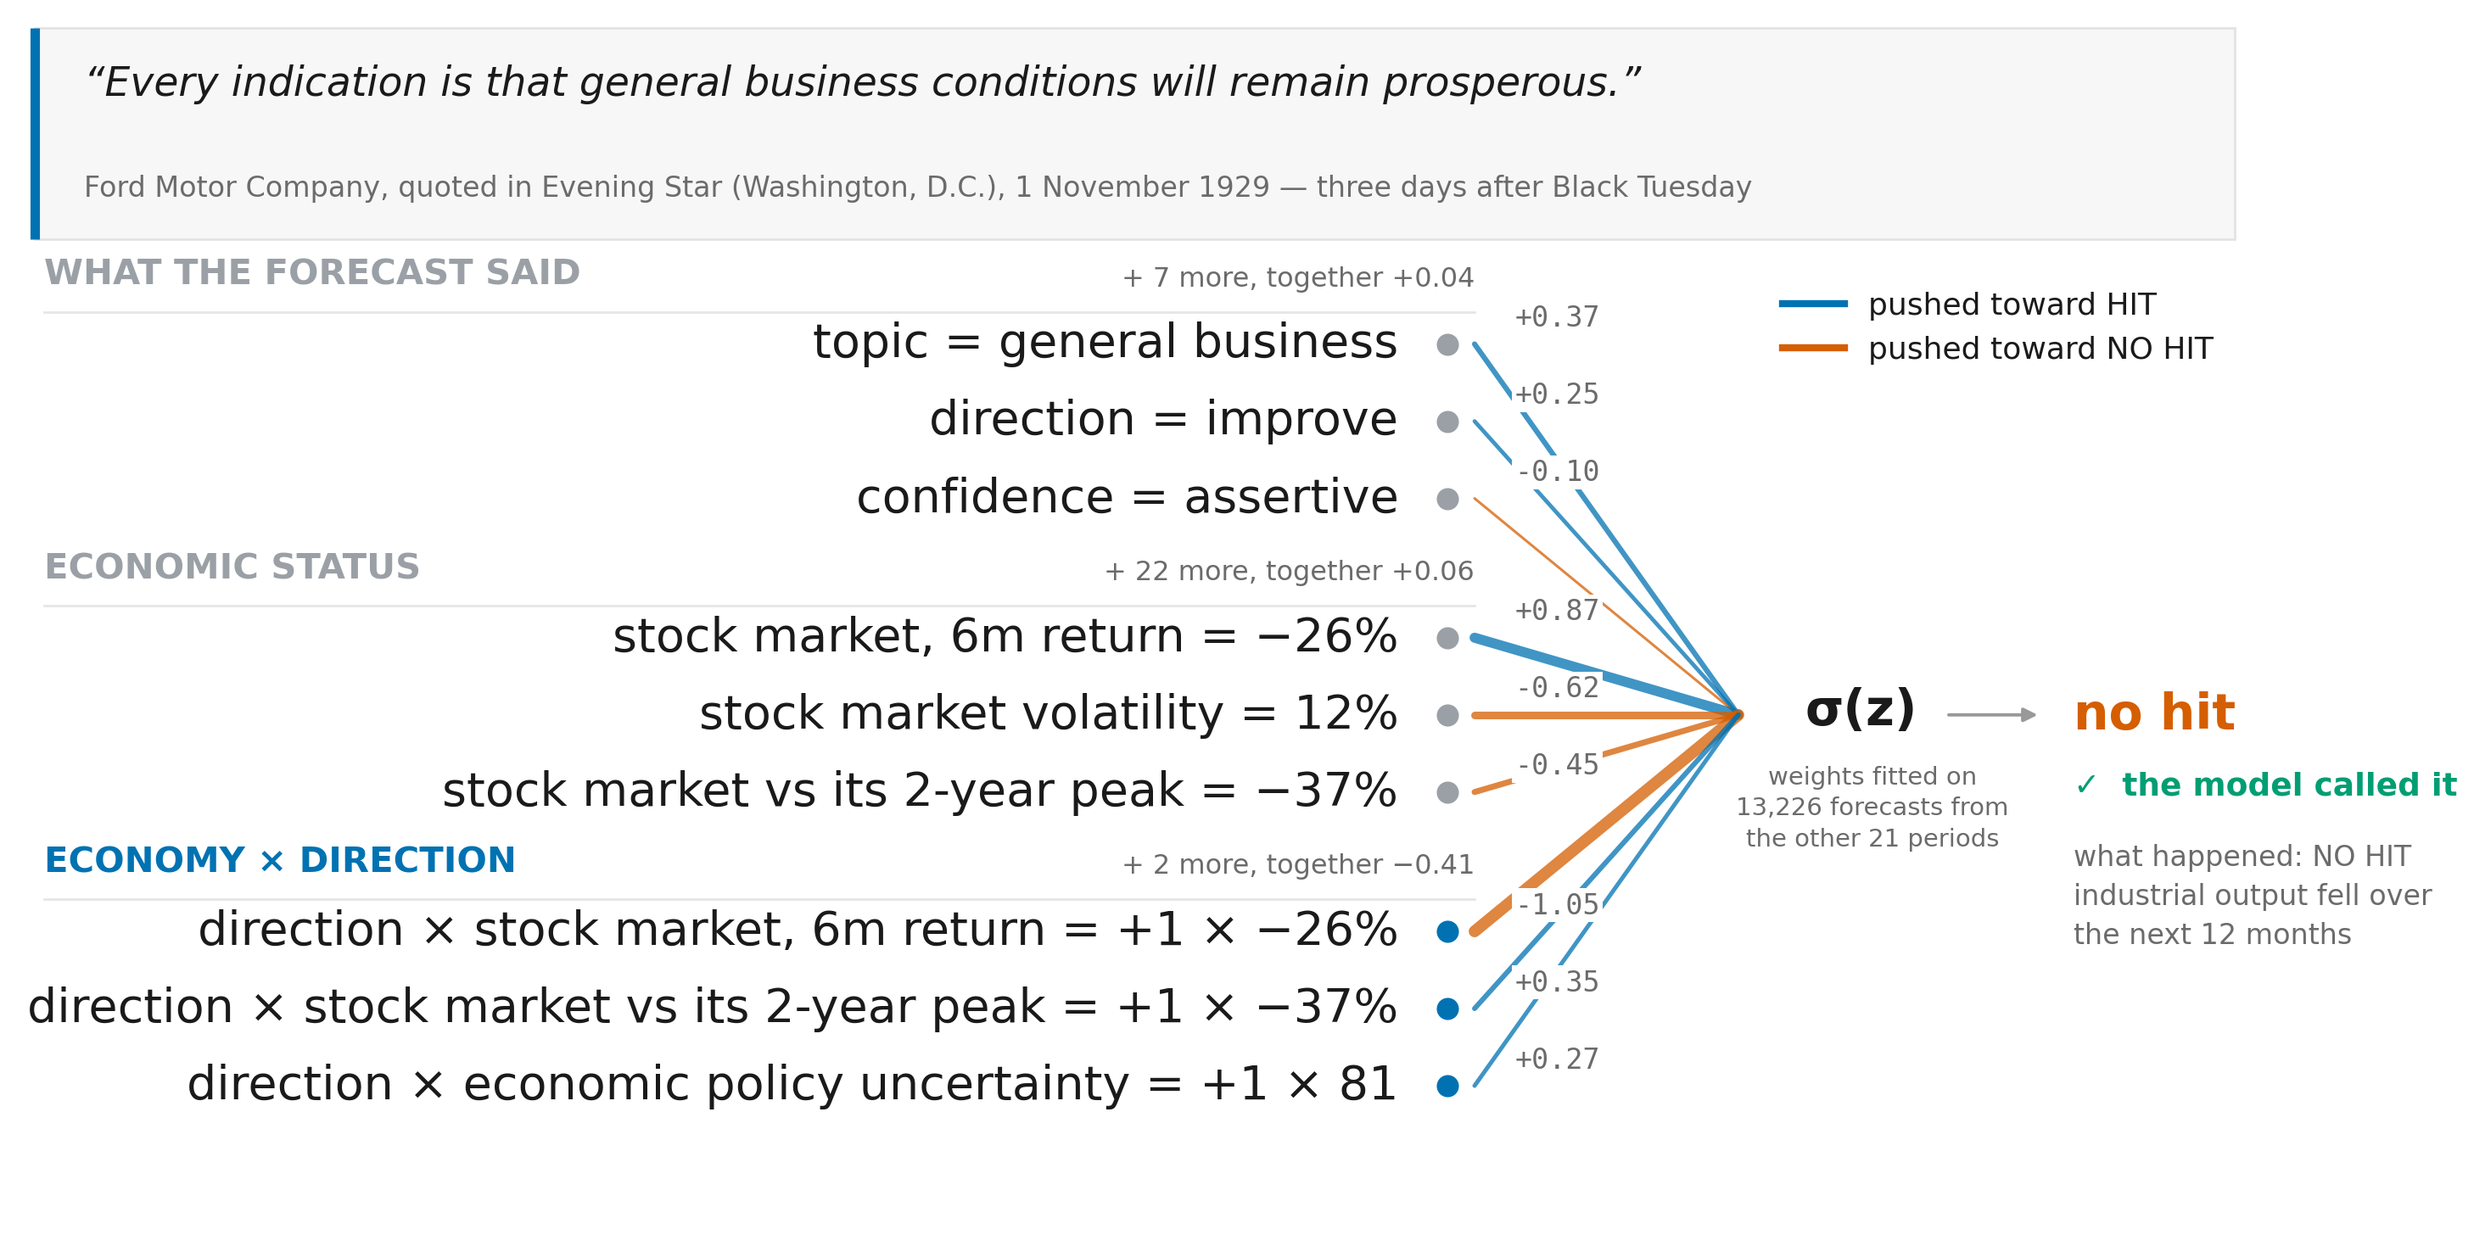
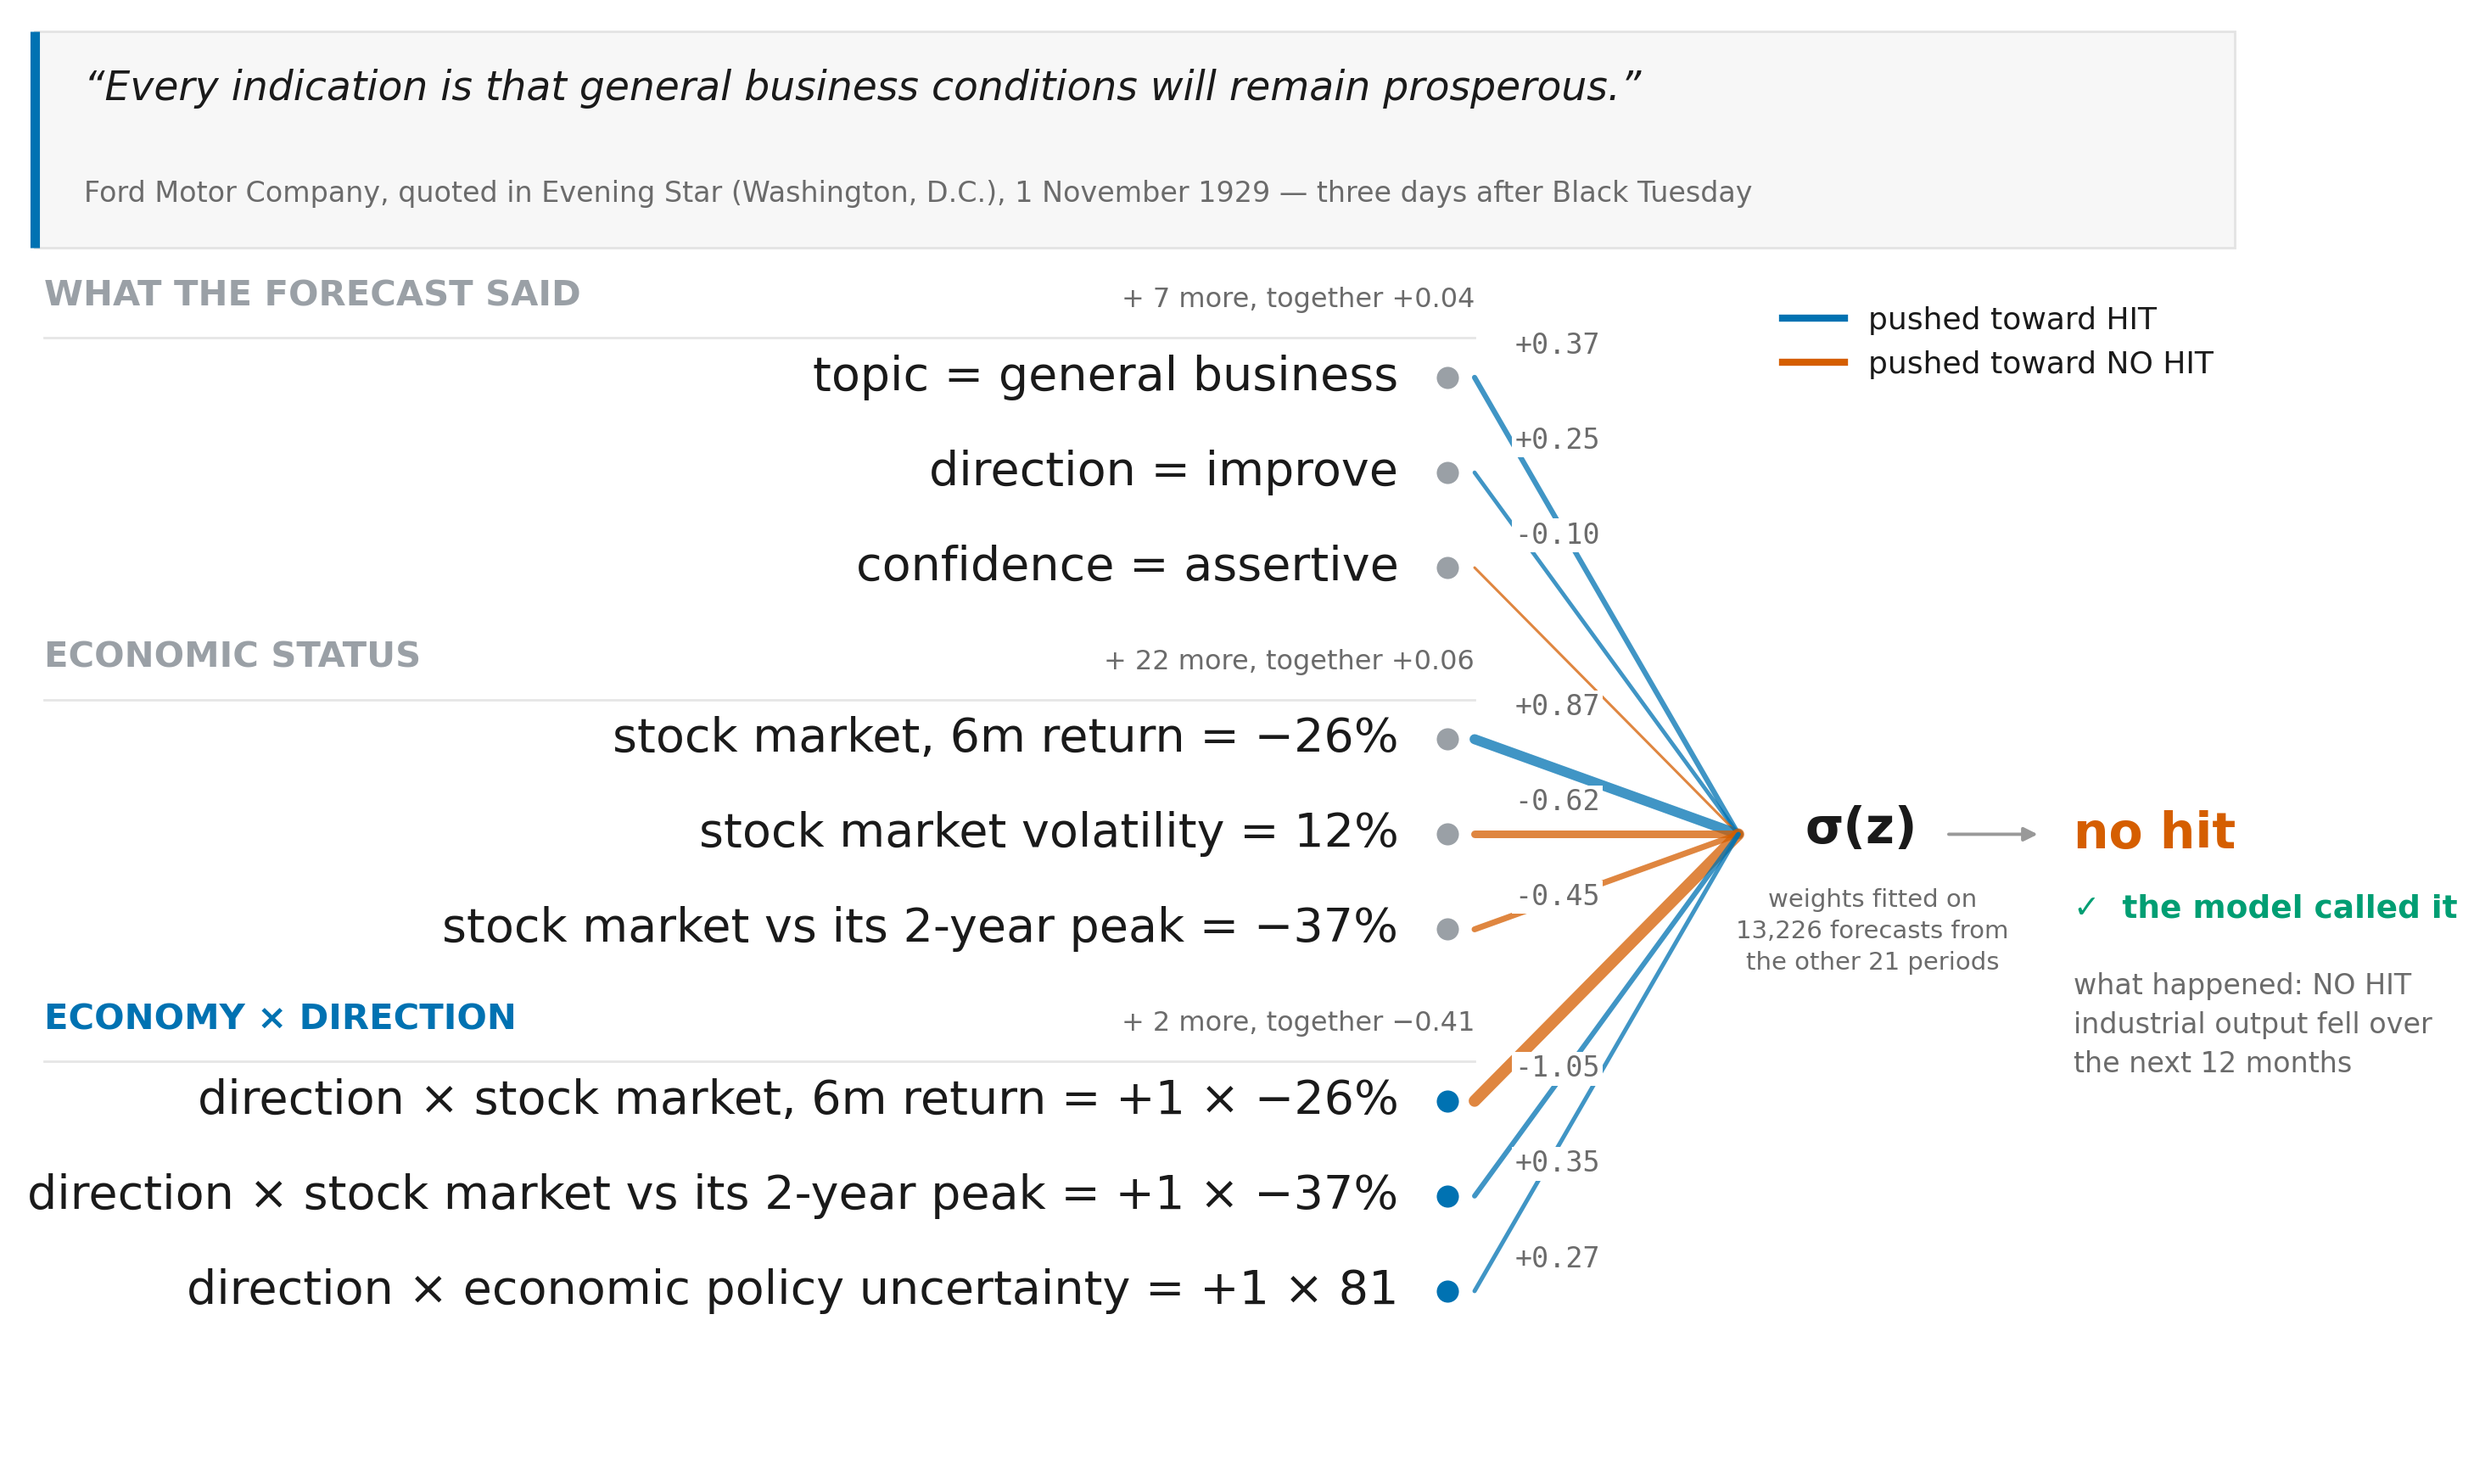
more

diff --git a/src/make_lr_figures.py b/src/make_lr_figures.py
@@ -509,20 +509,24 @@ def fig_graph(d, X, y, groups, per_group=3, spec=EXAMPLE):
     # figure, and inches of width are what let them be set large. The top limit
     # sits just above the quote box -- bbox_inches="tight" keeps the whole axes
     # patch, so any headroom past the box printed as a band of white above it.
-    fig, ax = plt.subplots(figsize=(17.0, 9.2))
-    ax.set_xlim(0, 1); ax.set_ylim(yy_cursor + GAP - 0.055, 1.232)
+    # Taller than the layout strictly needs: the row pitch is fixed in data
+    # units, so inches of height are what turn into air around the 20pt labels
+    # (0.077 of a row goes from a 41pt gap at 9.2in to 49pt at 11in). The quote
+    # block is re-tightened below to keep its own leading from growing with it.
+    fig, ax = plt.subplots(figsize=(17.0, 11.0))
+    ax.set_xlim(0, 1); ax.set_ylim(yy_cursor + GAP - 0.055, 1.197)
     ax.axis("off"); ax.grid(False)
 
     # -- the forecast itself, quoted across the top ---------------------------
-    ax.add_patch(plt.Rectangle((0.008, 1.010), 0.984, 0.210, facecolor="#f7f7f7",
+    ax.add_patch(plt.Rectangle((0.008, 1.010), 0.984, 0.175, facecolor="#f7f7f7",
                                edgecolor="#e3e3e3", lw=1.0, zorder=0))
-    ax.plot([0.008, 0.008], [1.010, 1.220], color=BLUE, lw=4.0, zorder=1,
+    ax.plot([0.008, 0.008], [1.010, 1.185], color=BLUE, lw=4.0, zorder=1,
             solid_capstyle="butt")
-    ax.text(0.030, 1.185, f"“{row['quote'].strip()}”", fontsize=17,
+    ax.text(0.030, 1.155, f"“{row['quote'].strip()}”", fontsize=17,
             style="italic", va="top", color=INK)
     speaker = str(row.get("speaker_name", "na"))
     who = "" if speaker.lower() == "na" else f"{speaker}, quoted in "
-    ax.text(0.030, 1.075,
+    ax.text(0.030, 1.065,
             f"{who}{_tidy_publisher(row['publisher'])}, "
             f"{pd.to_datetime(row['date']):%-d %B %Y} — {spec['occasion']}",
             fontsize=12, color=MUTED, va="top")
@@ -578,7 +582,7 @@ def fig_graph(d, X, y, groups, per_group=3, spec=EXAMPLE):
             va="center", zorder=6, fontweight="bold")
     # Three short lines, not two long ones: a wide caption here either slid back
     # under the fan on its left or into the verdict on its right.
-    ax.text(x_sig + 0.030, y_mid - 0.050,
+    ax.text(x_sig + 0.030, y_mid - 0.044,
             f"weights fitted on\n{n_train:,} forecasts from\n"
             f"the other {n_blocks} periods",
             fontsize=10.5, ha="center", va="top", color=MUTED, linespacing=1.4)
@@ -595,12 +599,12 @@ def fig_graph(d, X, y, groups, per_group=3, spec=EXAMPLE):
                 zorder=4)
     ax.text(x_out, y_mid, said.lower(), fontsize=21, va="center",
             fontweight="bold", color=VERM if said == "NO HIT" else BLUE)
-    ax.text(x_out, y_mid - 0.056,
+    ax.text(x_out, y_mid - 0.048,
             "✓  the model called it" if said == truth
             else "✗  the model missed it",
             fontsize=13.5, va="top", fontweight="bold",
             color=GREEN if said == truth else VERM)
-    ax.text(x_out, y_mid - 0.128,
+    ax.text(x_out, y_mid - 0.112,
             f"what happened: {truth}\n{what} {verb} over\n"
             f"the next {int(row['horizon_used'])} months",
             fontsize=12, va="top", color=MUTED, linespacing=1.5)
